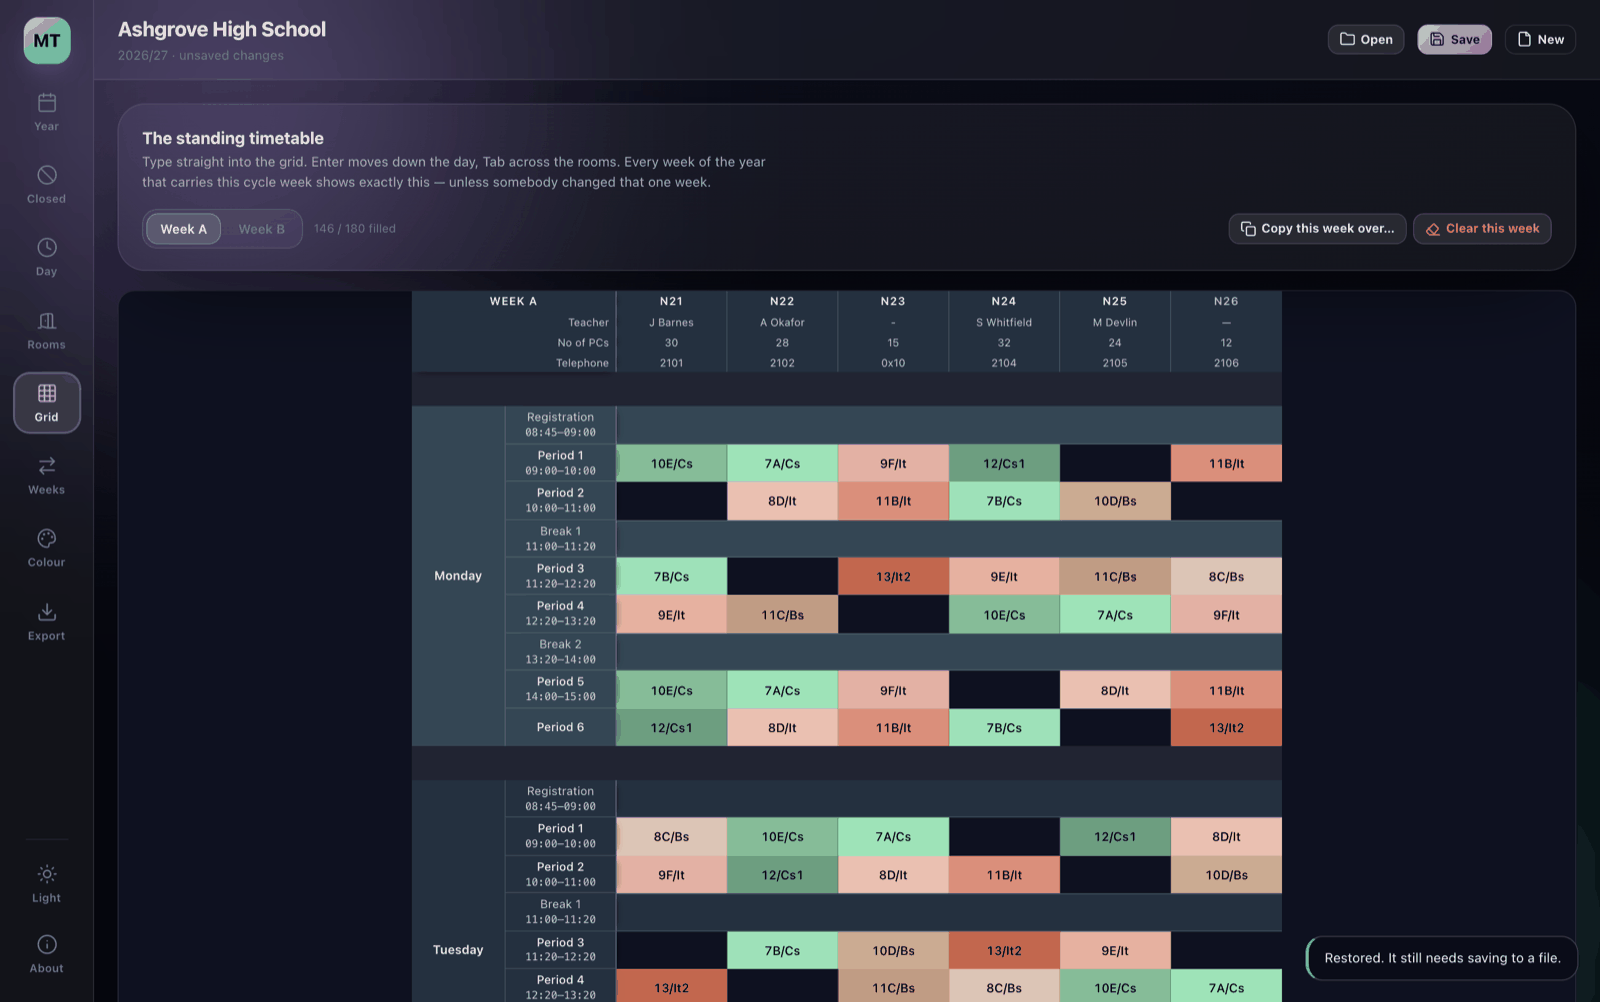
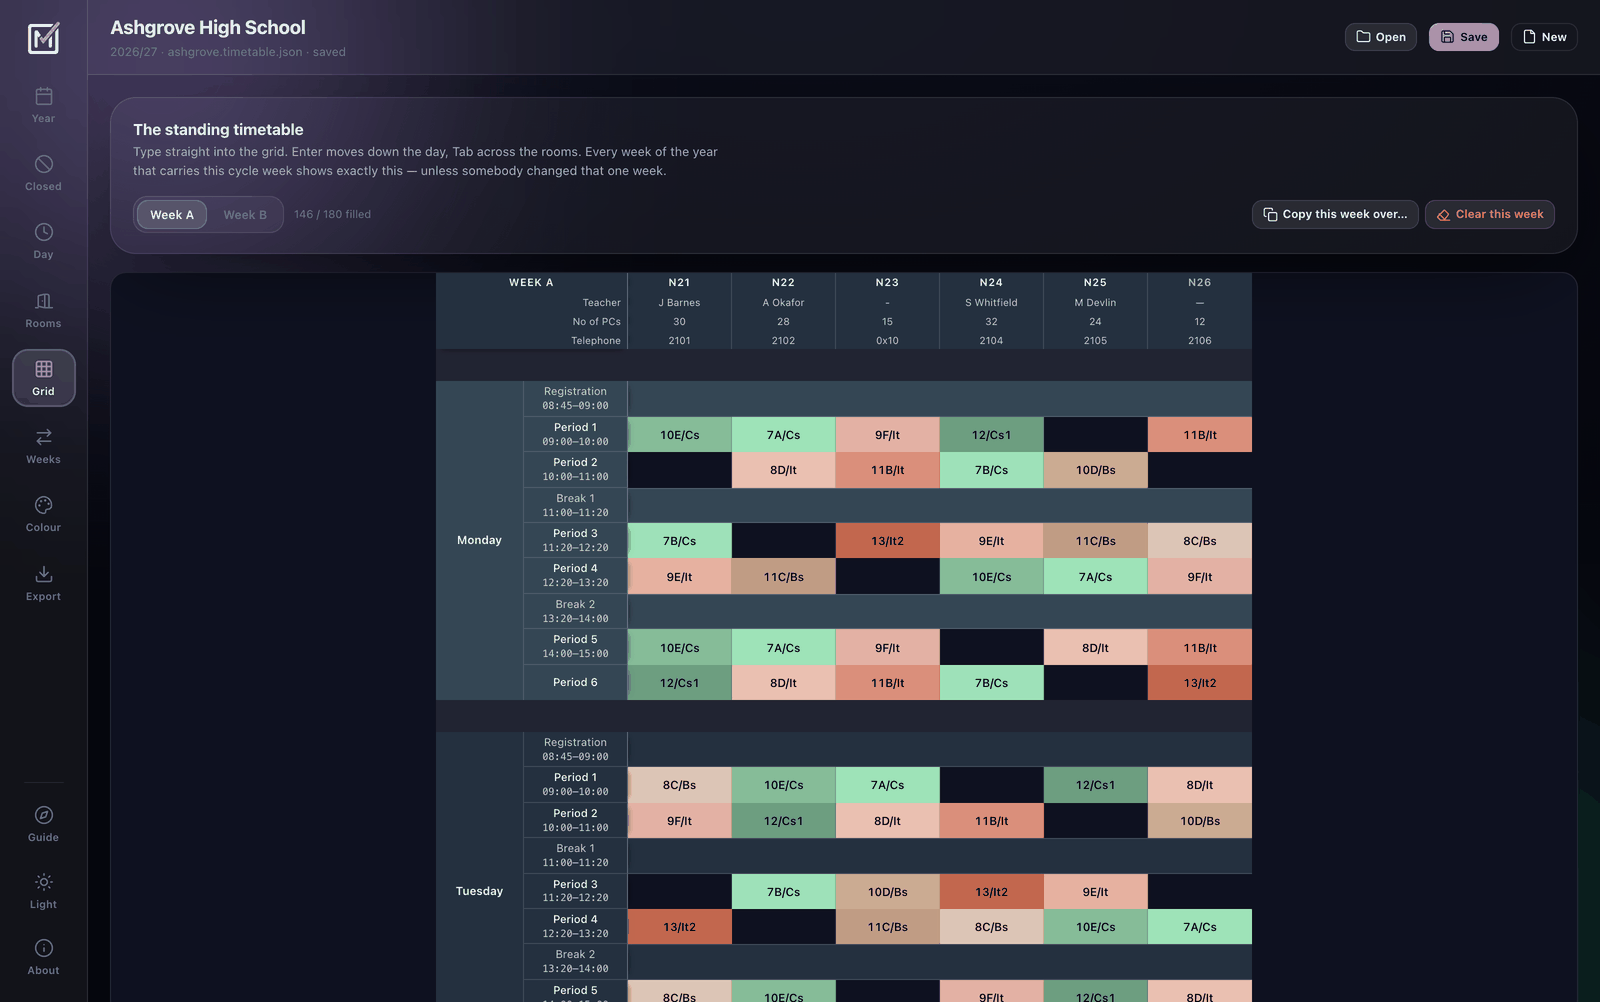
docs: re-take the screenshots with the real mark, and show the walkthrough
All five carried the "MT" placeholder tile in the rail. Re-taken from the
fixture school — invented data, not a real school's — with the top bar in its
saved state and no toast caught mid-flight.

Adds a sixth of the walkthrough, and a README section where somebody who has
never done this before will actually be looking: immediately after the list of
five things they are being told to fill in.

diff --git a/README.md b/README.md
@@ -42,6 +42,24 @@ Then **Export**, and you have the workbook.
 
 ---
 
+## Never done this before?
+
+**The app will walk you through it.** Ten steps with Next and Back, and each one
+takes you to the screen it is talking about and points at the control you need —
+so you are doing it as you read it, rather than reading first and doing it after.
+
+![The walkthrough](docs/screenshots/06-walkthrough.png)
+
+Each step also tells you whether that part is finished, and says plainly which
+three are optional — closures, one-off week changes and the colour are all things
+you can export a perfectly good workbook without.
+
+It offers itself the first time you open the app. After that it is in the left
+rail under **Guide**, so it is there again in August when somebody new picks this
+up.
+
+---
+
 ## What you get
 
 One sheet per week for the whole year, plus your templates and a half-term overview.
